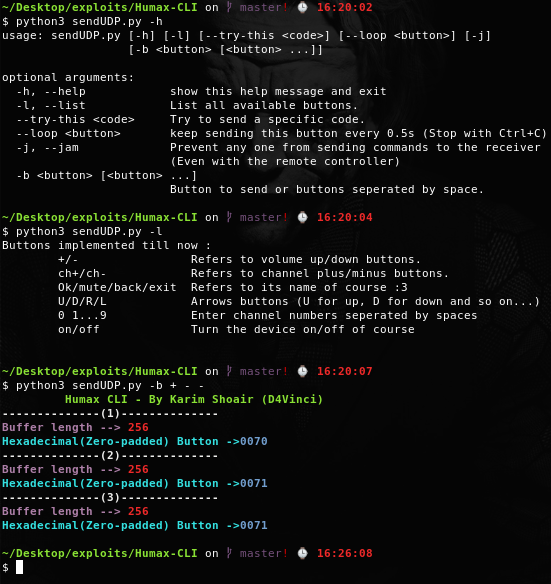
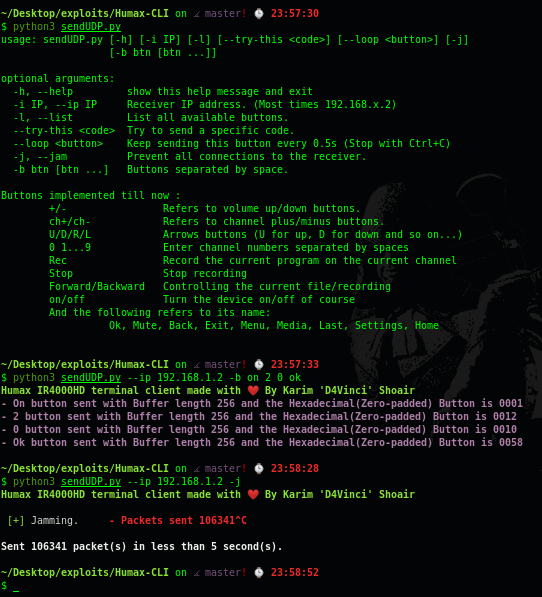
Making the client looks more professional,adding more buttons,cleaning the code a bit and more

Changed region(s): [[0.0, 0.0, 1.0, 0.9863]]

diff --git a/sendUDP.py b/sendUDP.py
@@ -1,9 +1,17 @@
-import socket,time,os,argparse
+import socket, time, os, argparse, sys
 
-ip       = "192.168.1.2"
 port     = 22558
 SEND_RCU = 889192452 #HuMessage.MSG_REMOTE_PROTOCOL_SEND_RCU_VALUE
-n    = 1
+
+parser = argparse.ArgumentParser(prog='sendUDP.py')
+parser.add_argument("-i", "--ip", help="Receiver IP address. (Most times 192.168.x.2)")
+parser.add_argument("-l", "--list",action="store_true", help="List all available buttons.")
+parser.add_argument("--try-this", metavar='<code>', type=int, help="Try to send a specific code.")
+parser.add_argument("--loop", metavar='<button>', help="Keep sending this button every 0.5s (Stop with Ctrl+C)")
+parser.add_argument("-j", "--jam",action="store_true", help="Prevent all connections to the receiver.")
+parser.add_argument("-b", type=str, metavar='btn', help="Buttons separated by space.", nargs='+')
+args    = parser.parse_args()
+
 if os.name!="nt":
 	G,B,R,W,M,C,end= '\033[92m','\033[94m','\033[91m','\x1b[37m','\x1b[35m','\x1b[36m','\033[0m'
 	Bold,underline = "\033[1m","\033[4m"
@@ -17,11 +25,23 @@ else:
 	except:
 		G = B = R = W = M = C = Bold = underline = ''
 
+buttons_list = """Buttons implemented till now :
+	+/-                Refers to volume up/down buttons.
+	ch+/ch-            Refers to channel plus/minus buttons.
+	U/D/R/L            Arrows buttons (U for up, D for down and so on...)
+	0 1...9            Enter channel numbers separated by spaces
+	Rec                Record the current program on the current channel
+	Stop               Stop recording
+	Forward/Backward   Controlling the current file/recording
+	on/off             Turn the device on/off of course
+	And the following refers to its name:
+		  Ok, Mute, Back, Exit, Menu, Media, Last, Settings, Home
+"""
+
 global sendBuf
 sendBuf = "".ljust(256,'\0') # The original packet length is 1024 :D #bytearray(1024) #[struct.pack('B', 0)]*1024
 
-#Todo : play with the buffer multiple(1024,512,256...) :D
-def arraycopy(src,src_start,copy_to,start,end):
+def arraycopy(src, src_start, copy_to, start, end):
 	global sendBuf
 	copy_to = list(copy_to)
 	for i in range(start,end):
@@ -29,84 +49,99 @@ def arraycopy(src,src_start,copy_to,start,end):
 		src_start +=1
 	sendBuf = "".join(copy_to)
 
-def send_button(code):
-	global n
+def send_button(ip, code, button_name, normal=False):
 	data = "%04x"%code
 	type = "rcu" #touch
 	arraycopy("hmxra",0,sendBuf,0,len("hmxra"))
 	arraycopy(type,0,sendBuf,8,8+len(type) )
 	arraycopy(data,0,sendBuf,16,16+len(data) )
-	print(W+"-"*14+"("+str(n)+")"+"-"*14)
-	print(M+"Buffer length --> "+ R +str(len(sendBuf)))
-	print(C+"Hexadecimal(Zero-padded) Button ->"+ B +str(data))
+	if normal:
+		print(end+M+Bold+"- "+button_name.capitalize()+" button sent with Buffer length " +str(len(sendBuf))+
+			" and the Hexadecimal(Zero-padded) Button is " +str(data))
 	s = socket.socket(socket.AF_INET, socket.SOCK_DGRAM) # UDP
 	s.sendto( sendBuf.encode(), (ip, port))
 	s.close()
-	n +=1
 
 def main():
-	parser = argparse.ArgumentParser(prog='sendUDP.py')
-	parser.add_argument("-l", "--list",action="store_true", help="List all available buttons.")
-	parser.add_argument("--try-this", metavar='<code>', type=int, help="Try to send a specific code.")
-	parser.add_argument("--loop", metavar='<button>', help="keep sending this button every 0.5s (Stop with Ctrl+C)")
-	parser.add_argument("-j", "--jam",action="store_true", help="Prevent any one from sending commands to the receiver (Even with the remote controller)")
-	parser.add_argument("-b", type=str, metavar='<button>', help="Button to send or buttons seperated by space.", nargs='+')
-	args    = parser.parse_args()
+	ip = ""
+	if not args.ip:
+		print(end+R+Bold+"Receiver ip is required!"+end)
+		exit(0)
+	else:
+		ip = args.ip
+
 	keys = {"+":112,"-":113,"ch+":80,"ch-":81,"ok":88,"u":84,"d":85,"r":83,"l":82,"mute":114,"back":86,"on":1,"off":1,
-		"exit":87,"rec":147,"stop":146,
+		"exit":87,"rec":147,"stop":146,"menu":50,"media":61,"last":98,"forward":148,"backward":149,"settings":168,"home":241,
 		"0":16,"1":17,"2":18,"3":19,"4":20,"5":21,"6":22,"7":23,"8":24,"9":25}
-	if args.list :
-		print("""Buttons implemented till now :
-	+/-                Refers to volume up/down buttons.
-	ch+/ch-            Refers to channel plus/minus buttons.
-	Ok/mute/back/exit  Refers to its name of course :3
-	U/D/R/L            Arrows buttons (U for up, D for down and so on...)
-	0 1...9            Enter channel numbers seperated by spaces
-	Rec                Record the current program on the current channel
-	Stop               Stop recording
-	on/off             Turn the device on/off of course
-	""")
-	elif args.jam :
+	if args.jam :
+		starting_time = time.time()
+		n = 1
+		J = "Jamming."
+		sys.stdout.write("\n\t"+J)
 		while True:
 			try:
-				send_button(87) #exit button code :D
-			except:
-				print("\nYup, enough jamming :D")
+				send_button(ip, 87, 'Exit') #exit button code :D
+				n +=1
+				J +="."
+				sys.stdout.write(end+G+"\r [+] "+W+"{:12}".format(J) + end+R+Bold+" - Packets sent "+str(n) )
+				sys.stdout.flush()
+				if len(J)==12:
+					J = "Jamming"
+			except KeyboardInterrupt:
+				print(end+W+Bold+"\n\nSent "+str(n)+" packet(s) in less than "+str( 1+int(time.time()-starting_time) )+" second(s)." )
 				break
+			except Exception as e:
+				#print(e)
+				print(end+R+Bold+"Something went wrong while jamming, maybe the receiver blocked us!")
+				break
+
 	elif args.try_this :
-		send_button(int(args.try_this))
+		send_button(ip, int(args.try_this), "Code "+args.try_this)
+
 	elif args.loop :
+		n = 1
+		starting_time = time.time()
+		n = 1
+		J = "Looping."
+		sys.stdout.write("\n\t"+J)
 		while True:
 			try:
-				send_button( keys[args.loop.lower()] )
+				send_button(ip, keys[args.loop.lower()], args.loop )
 				time.sleep(0.5)
-			except:
-				print("\nYup, enough looping :D")
+				n +=1
+				J +="."
+				sys.stdout.write(end+G+"\r [+] "+W+"{:10}".format(J) + end+R+Bold+" - Packets sent "+str(n) )
+				sys.stdout.flush()
+				if len(J)==10:
+					J = "Looping"
+			except KeyboardInterrupt:
+				print(end+W+Bold+"\n\nSent "+str(n)+" packet(s) in less than "+str( 1+int(time.time()-starting_time) )+" second(s)." )
 				break
+			except Exception as e:
+				#print(e)
+				print(end+R+Bold+"Something went wrong while loop!")
+				break
+
 	elif args.b:
-		print(G+Bold+"\t Humax CLI - By Karim Shoair (D4Vinci)")
 		try:
 			btns  = args.b    #80 channel_plus |112 #volume_up |97 #Channel_minus |88 #OK
 			for btn in btns:
 				if btn in list("0123456789"):
-					send_button(keys[btn])
+					send_button(ip, keys[btn], btn, True)
 					time.sleep(0.2)
 				else:
-					send_button(keys[btn.lower()])
+					send_button(ip, keys[btn.lower()], btn, True)
 					time.sleep(0.5)
 		except Exception as e:
 			#print(e)
-			print("Error in sending button!")
-	else:
-		print("Use --help or -h to list all the options")
-		print("""Buttons implemented till now :
-	+ 			 Refers to volume up button    (And opposite is - of course)
-	ch+ 		 	 Refers to channel plus button (And opposite is ch- of course)
-	Ok/mute/back/exit	 Refers to its name of course :3
-	U D R L			 Arrows buttons (U for up, D for down and so on...)
-	0 1...9			 Enter channel numbers seperated with spaces
-	on/off			 Turn the device on/off of course
-	""")
+			print(end+R+Bold+"Error in sending button!")
 
 if __name__ == '__main__':
-	main()
+	if args.list :
+		print(end+G+buttons_list+end)
+	elif len(args.__str__())==75: # To print help if there's no argument at all
+		parser.print_help()
+		print("\n"+buttons_list)
+	else:
+		print(end+G+Bold+"Humax IR4000HD terminal client made with ❤  By Karim 'D4Vinci' Shoair"+end)
+		main()

diff --git a/README.md b/README.md
@@ -7,34 +7,36 @@ An unofficial Humax IR4000HD terminal client with enhanced features.
 
 # Usage :
 ```
-usage: sendUDP.py [-h] [-l] [--try-this <code>] [--loop <button>] [-j]
-                  [-b <button> [<button> ...]]
+usage: sendUDP.py [-h] [-i IP] [-l] [--try-this <code>] [--loop <button>] [-j] [-b btn [btn ...]]
 
 optional arguments:
-  -h, --help            show this help message and exit
-  -l, --list            List all available buttons.
-  --try-this <code>     Try to send a specific code.
-  --loop <button>       keep sending this button every 0.5s (Stop with Ctrl+C)
-  -j, --jam             Prevent any one from sending commands to the receiver
-                        (Even with the remote controller)
-  -b <button> [<button> ...]
-                        Button to send or buttons seperated by space.
+  -h, --help         show this help message and exit
+  -i IP, --ip IP     Receiver IP address. (Most times 192.168.x.2)
+  -l, --list         List all available buttons.
+  --try-this <code>  Try to send a specific code.
+  --loop <button>    Keep sending this button every 0.5s (Stop with Ctrl+C)
+  -j, --jam          Prevent all connections to the receiver.
+  -b btn [btn ...]   Buttons separated by space.
+
 ```
 
-## Implemented buttons till now (can be viewed with -l option)
+## Implemented buttons till now and also can be viewed with `-l` option
 ```
 Buttons implemented till now :
-	+/-                Refers to volume up/down buttons.
-	ch+/ch-            Refers to channel plus/minus buttons.
-	Ok/mute/back/exit  Refers to its name of course :3
-	U/D/R/L            Arrows buttons (U for up, D for down and so on...)
-	0 1...9            Enter channel numbers seperated by spaces
-	Rec                Record the current program on the current channel
-	Stop               Stop recording
-	on/off             Turn the device on/off of course
+    +/-                Refers to volume up/down buttons.
+    ch+/ch-            Refers to channel plus/minus buttons.
+    U/D/R/L            Arrows buttons (U for up, D for down and so on...)
+    0 1...9            Enter channel numbers separated by spaces
+    Rec                Record the current program on the current channel
+    Stop               Stop recording
+    Forward/Backward   Controlling the current file/recording
+    on/off             Turn the device on/off of course
+    And the following refers to its name:
+        Ok, Mute, Back, Exit, Menu, Media, Last, Settings, Home
 
 ```
-### All the buttons codes that can be used with the `--try-this` option (Some of them already implemented)
+
+### All the buttons codes, which you can try code with the `--try-this` option
 ```
 STANDBY(1),
 0(16),
@@ -215,9 +217,9 @@ UNKNOWN(65535),
 NULL(0);
 ```
 ## Installing and requirements
-### To make the tool work at its best you must have :
 - Python 3.x or 2.x (preferred 3).
-- Linux or Windows system.
+- Any terminal.
+- On windows run `python -m pip install -r windows-requirements.txt` to enable coloring
 
 ## Donation
 If this work has been useful for you, feel free to thank me by buying me a coffee :)
